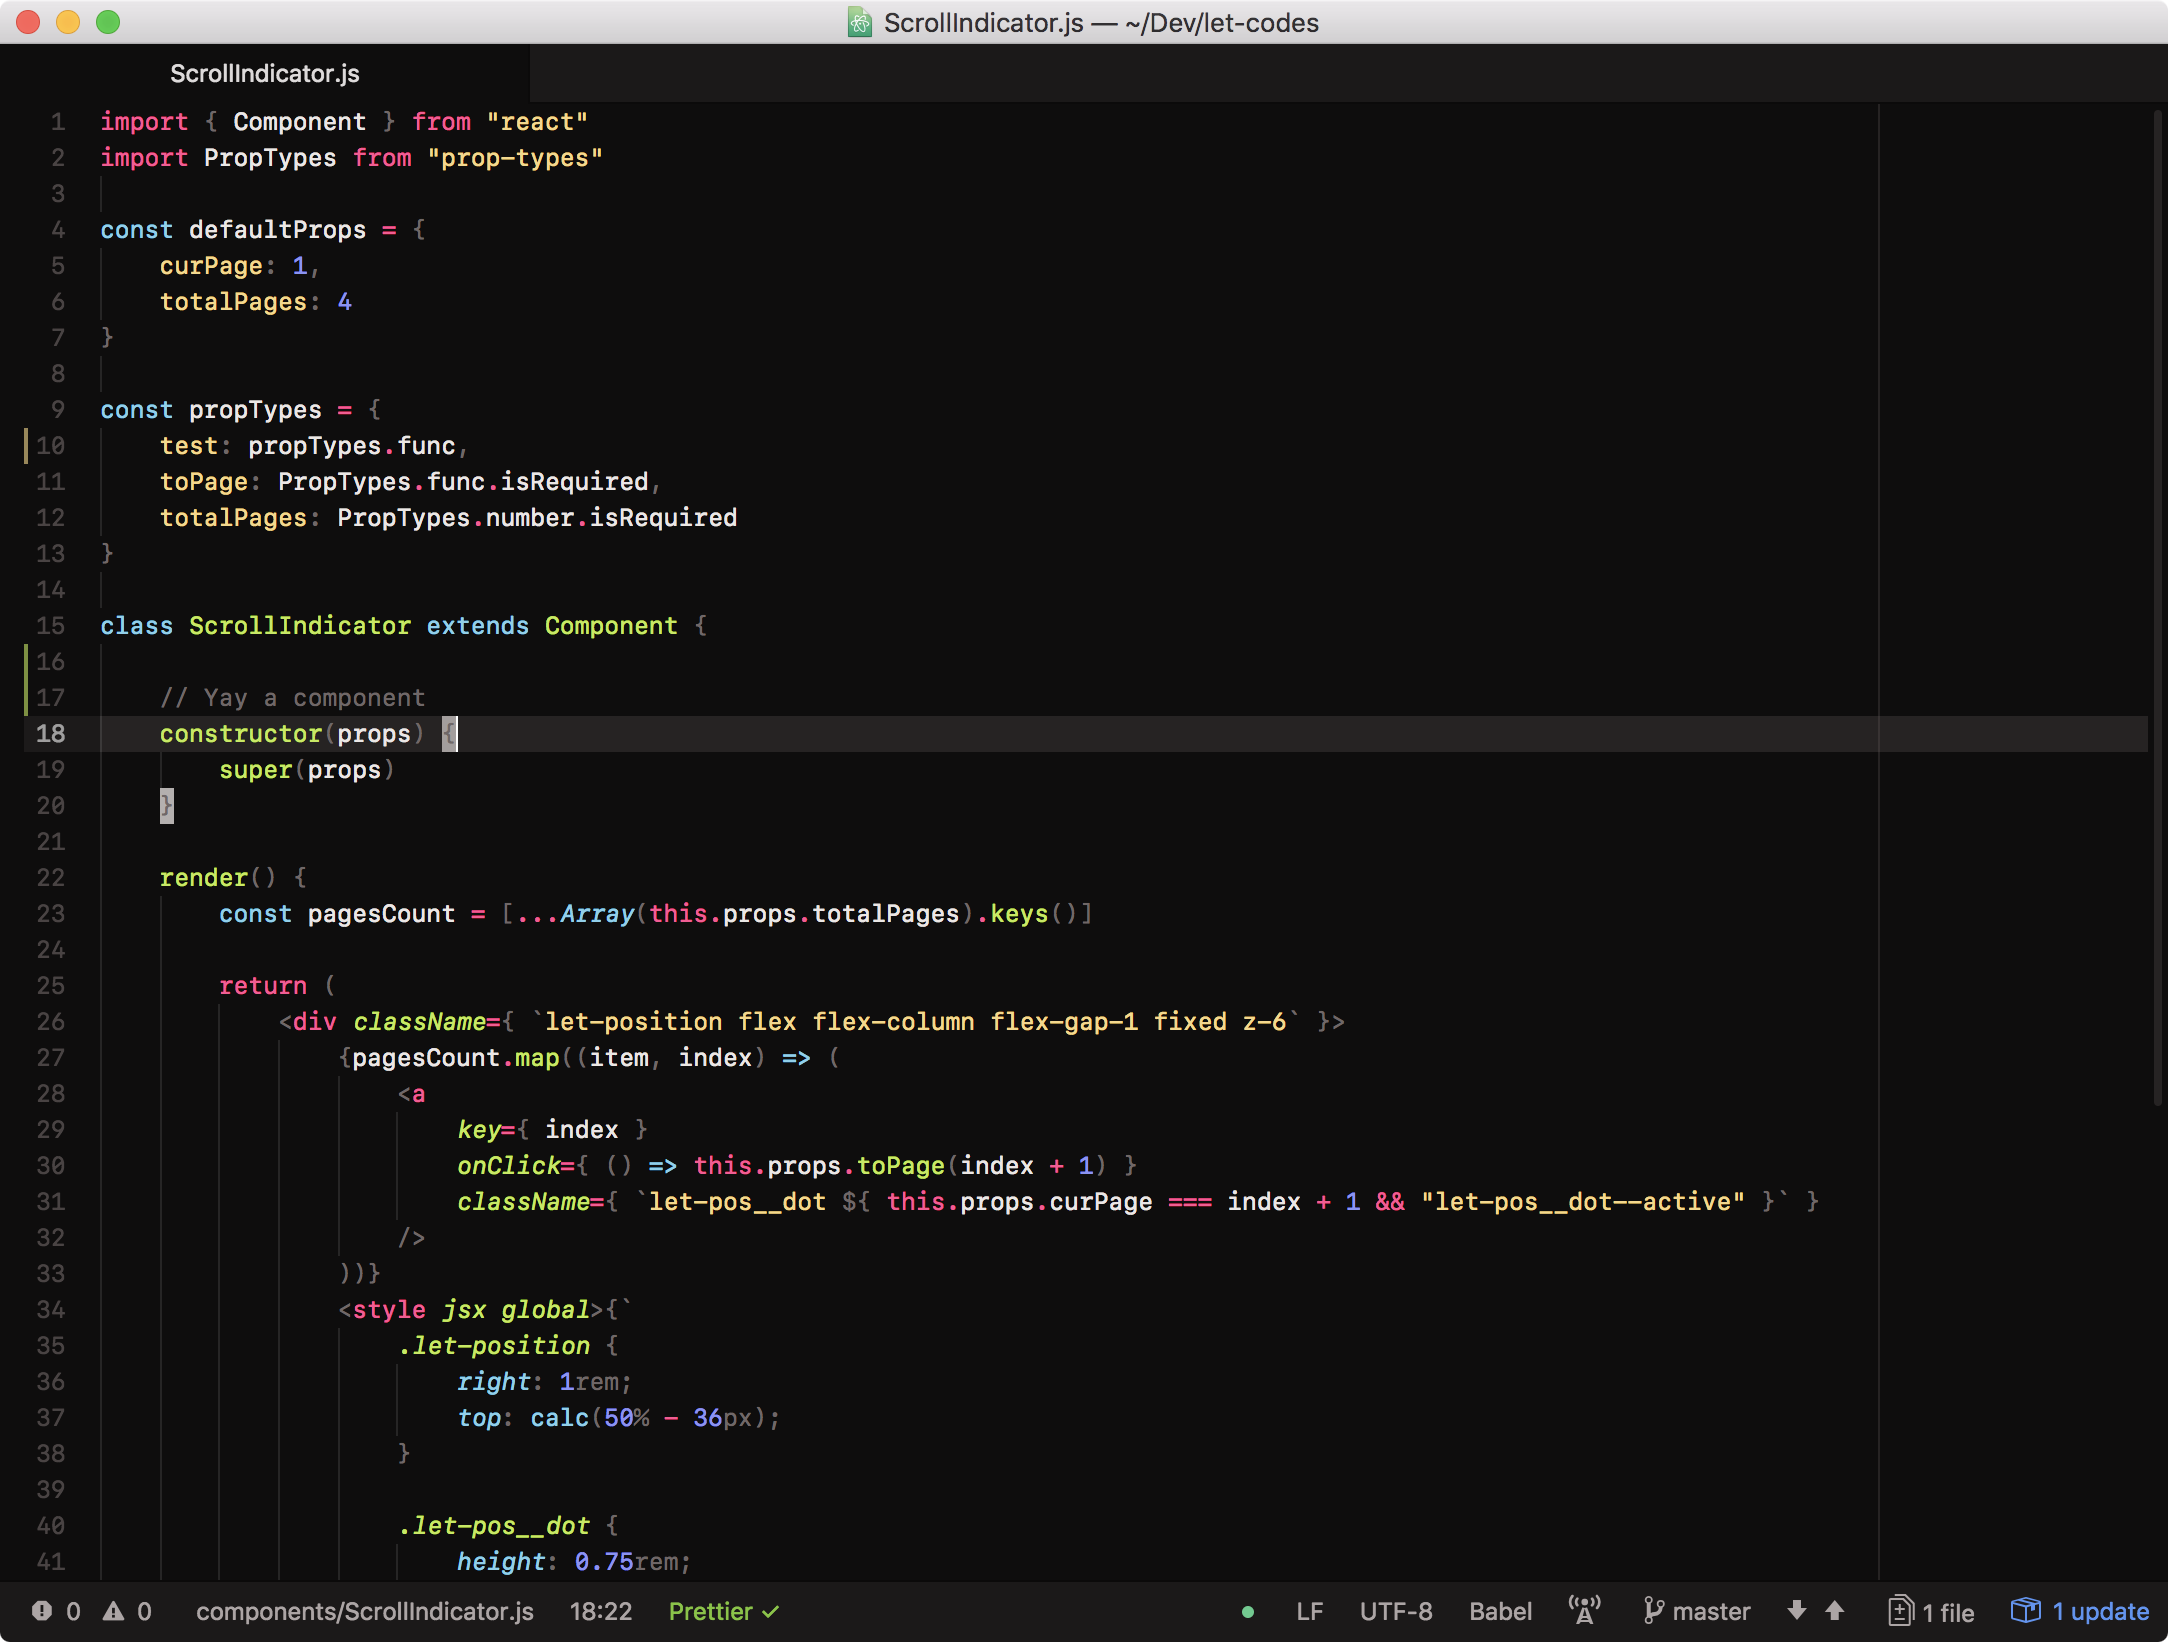
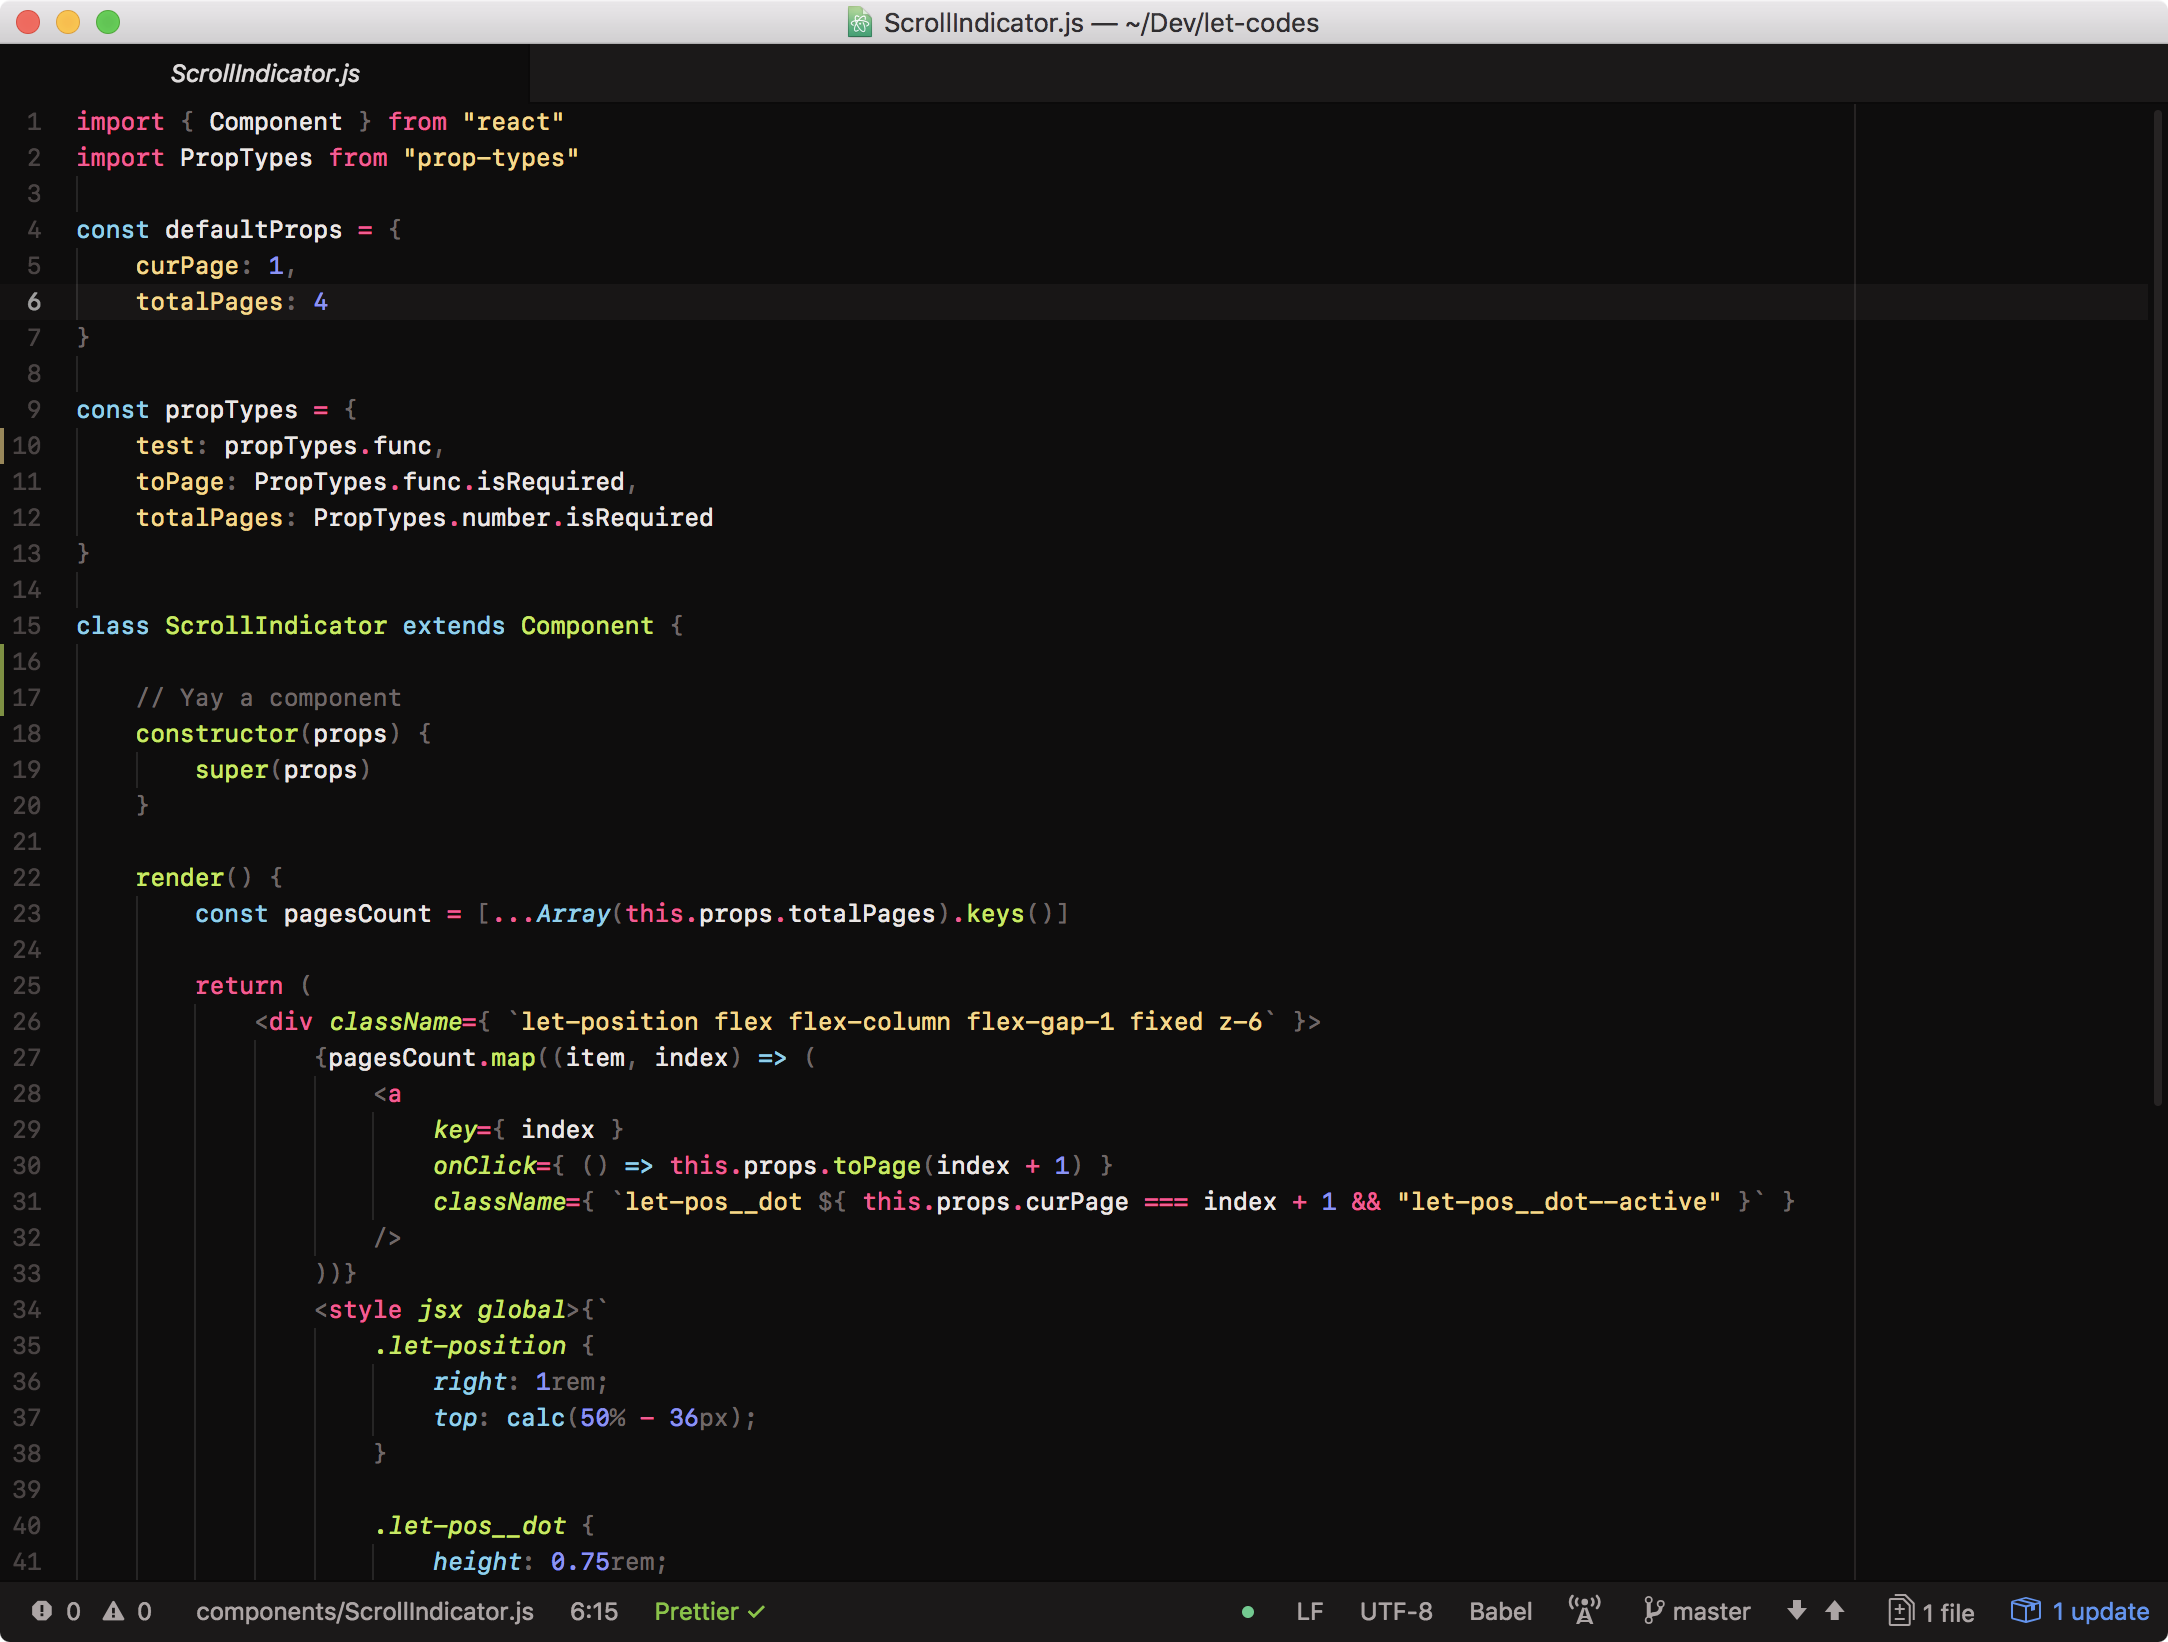
Update screenshots and fix colors

diff --git a/styles/colors.less b/styles/colors.less
@@ -1,8 +1,8 @@
 // Mono
 @light: white;
-@silver: #ebe9e9;
-@gray: #747171;
-@dark: #0f0f0f;
+@silver: #ebe7e5;
+@gray: #6f6767;
+@dark: #0e0d0d;
 
 // Colors
 @red: #f34d4b;
